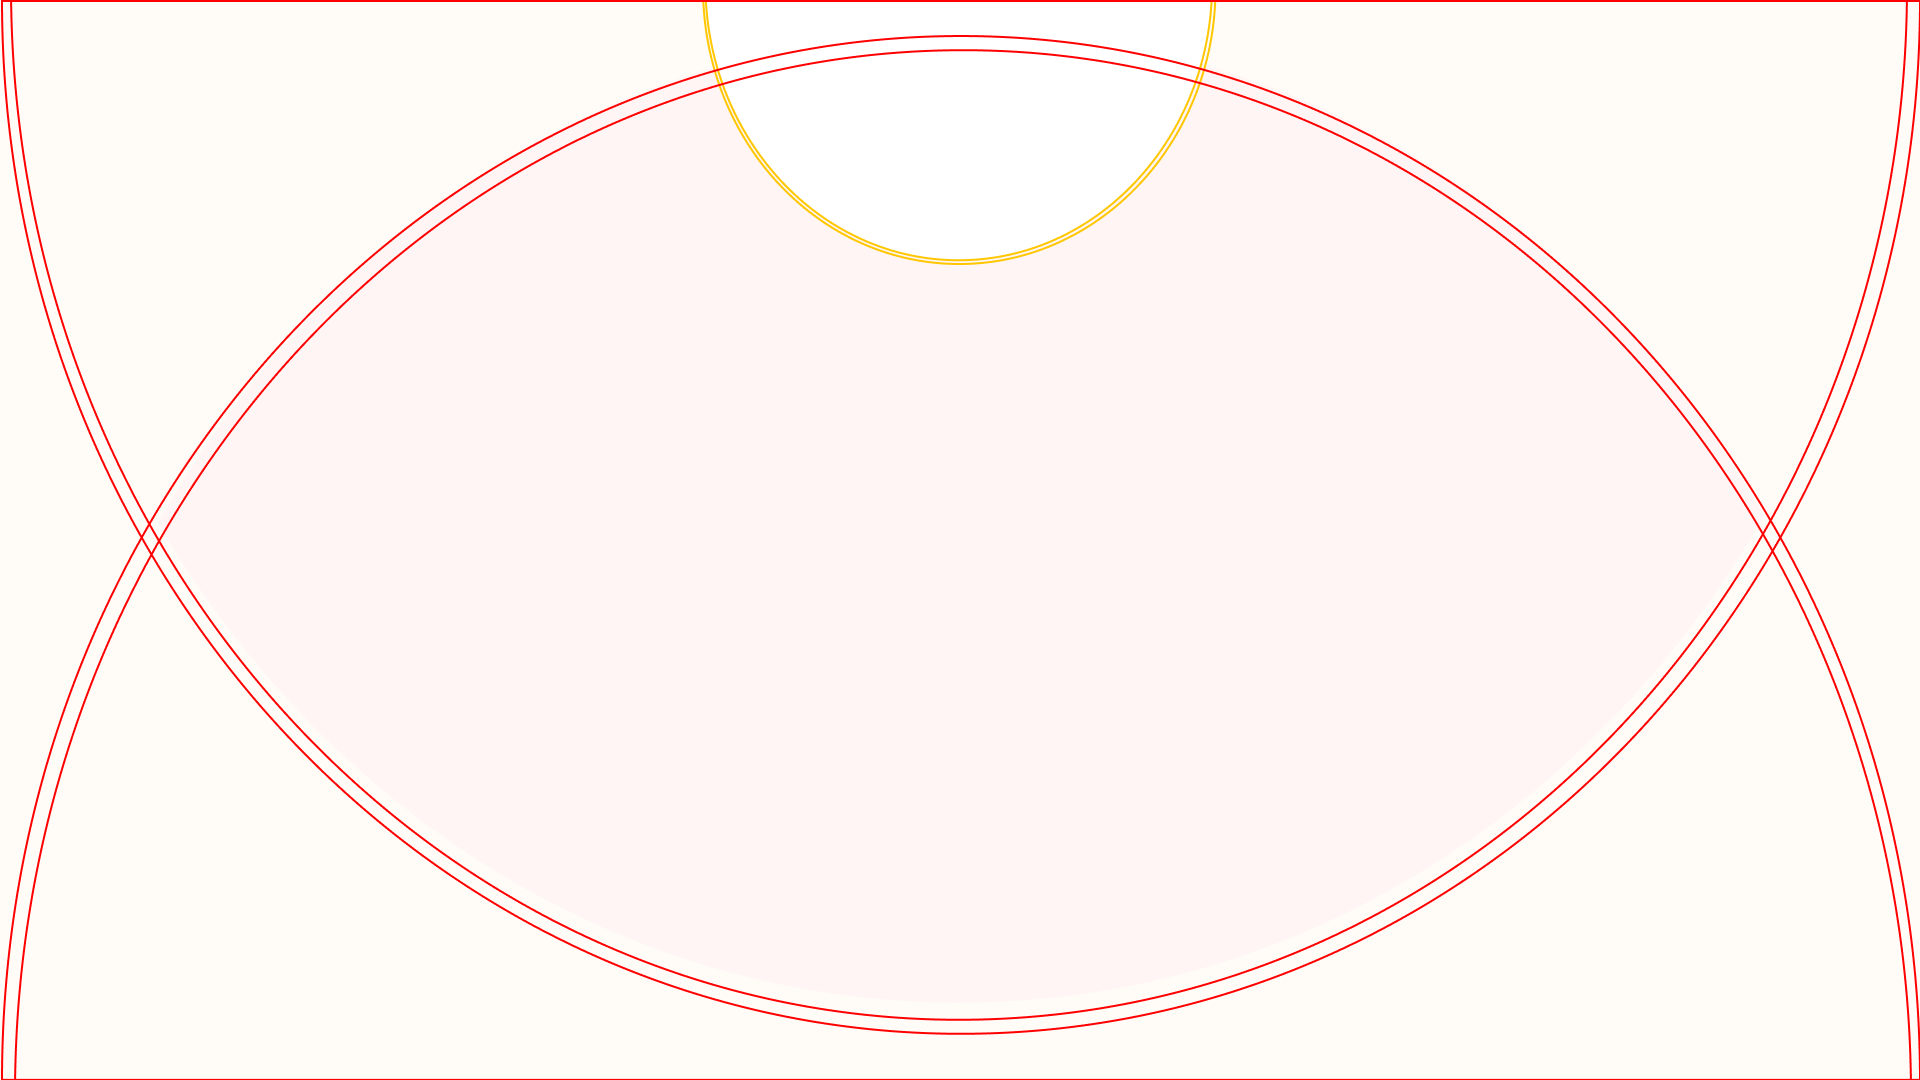
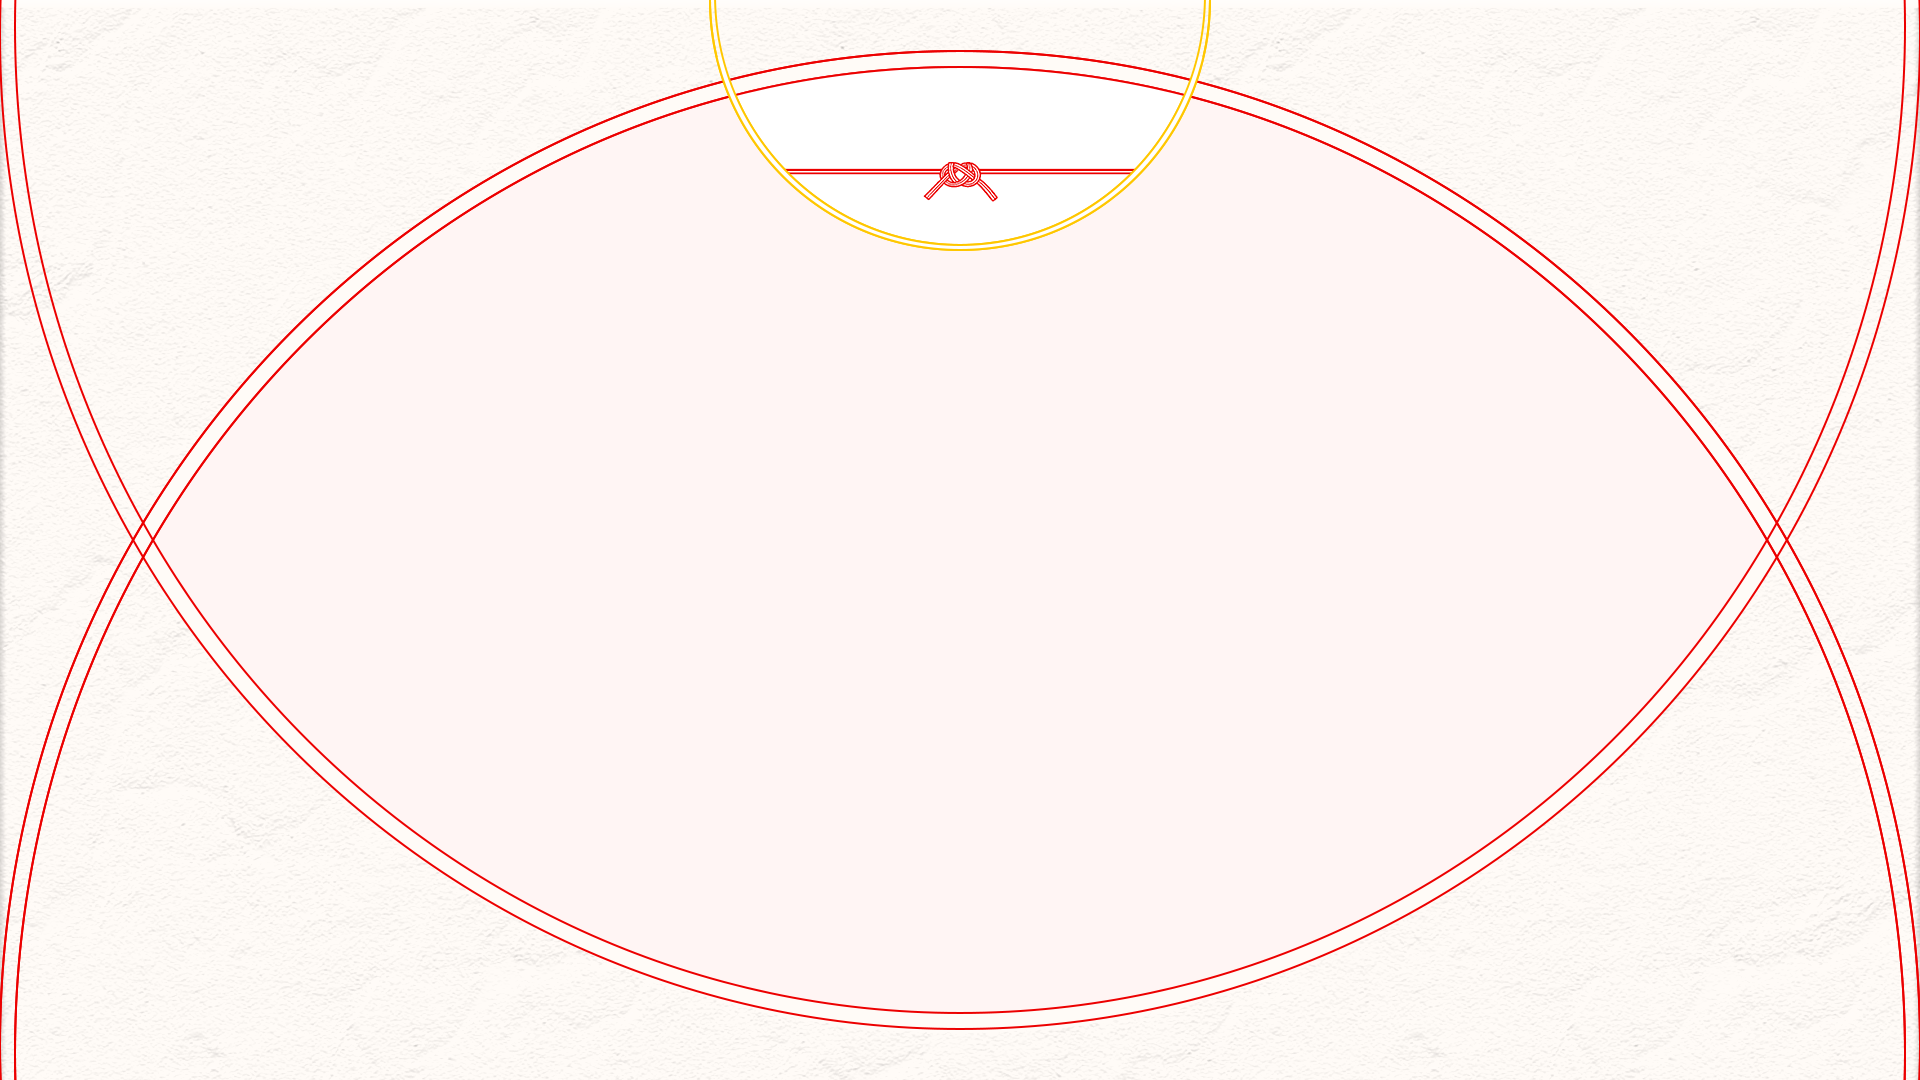
[Feat] survey sql,css,jsp files edited & backgroung img change

diff --git a/src/main/webapp/surveyPage/survey.css b/src/main/webapp/surveyPage/survey.css
@@ -158,7 +158,7 @@ header {
   justify-content: center;
   align-items: flex-start;
   font-size: 1.2rem;
-  padding-top: 1rem;
+  padding-top: 2rem;
 }
 
 .tg-slide-page > div:nth-child(5) > div {
@@ -194,12 +194,12 @@ header {
 }
 
 .name-container {
-  /* padding-top: 2rem; */
+  padding-top: 1rem;
 }
 
 fieldset {
   border: 1px solid red;
-  /* padding: 0.8rem; */
+  padding: 1rem;
   border-radius: 8px;
 }
 
@@ -233,6 +233,7 @@ legend div:nth-child(1) {
 .kanzi-container > div {
   padding-right: 2rem;
 }
+
 
 .contact-container > div {
   padding-right: 4rem;
